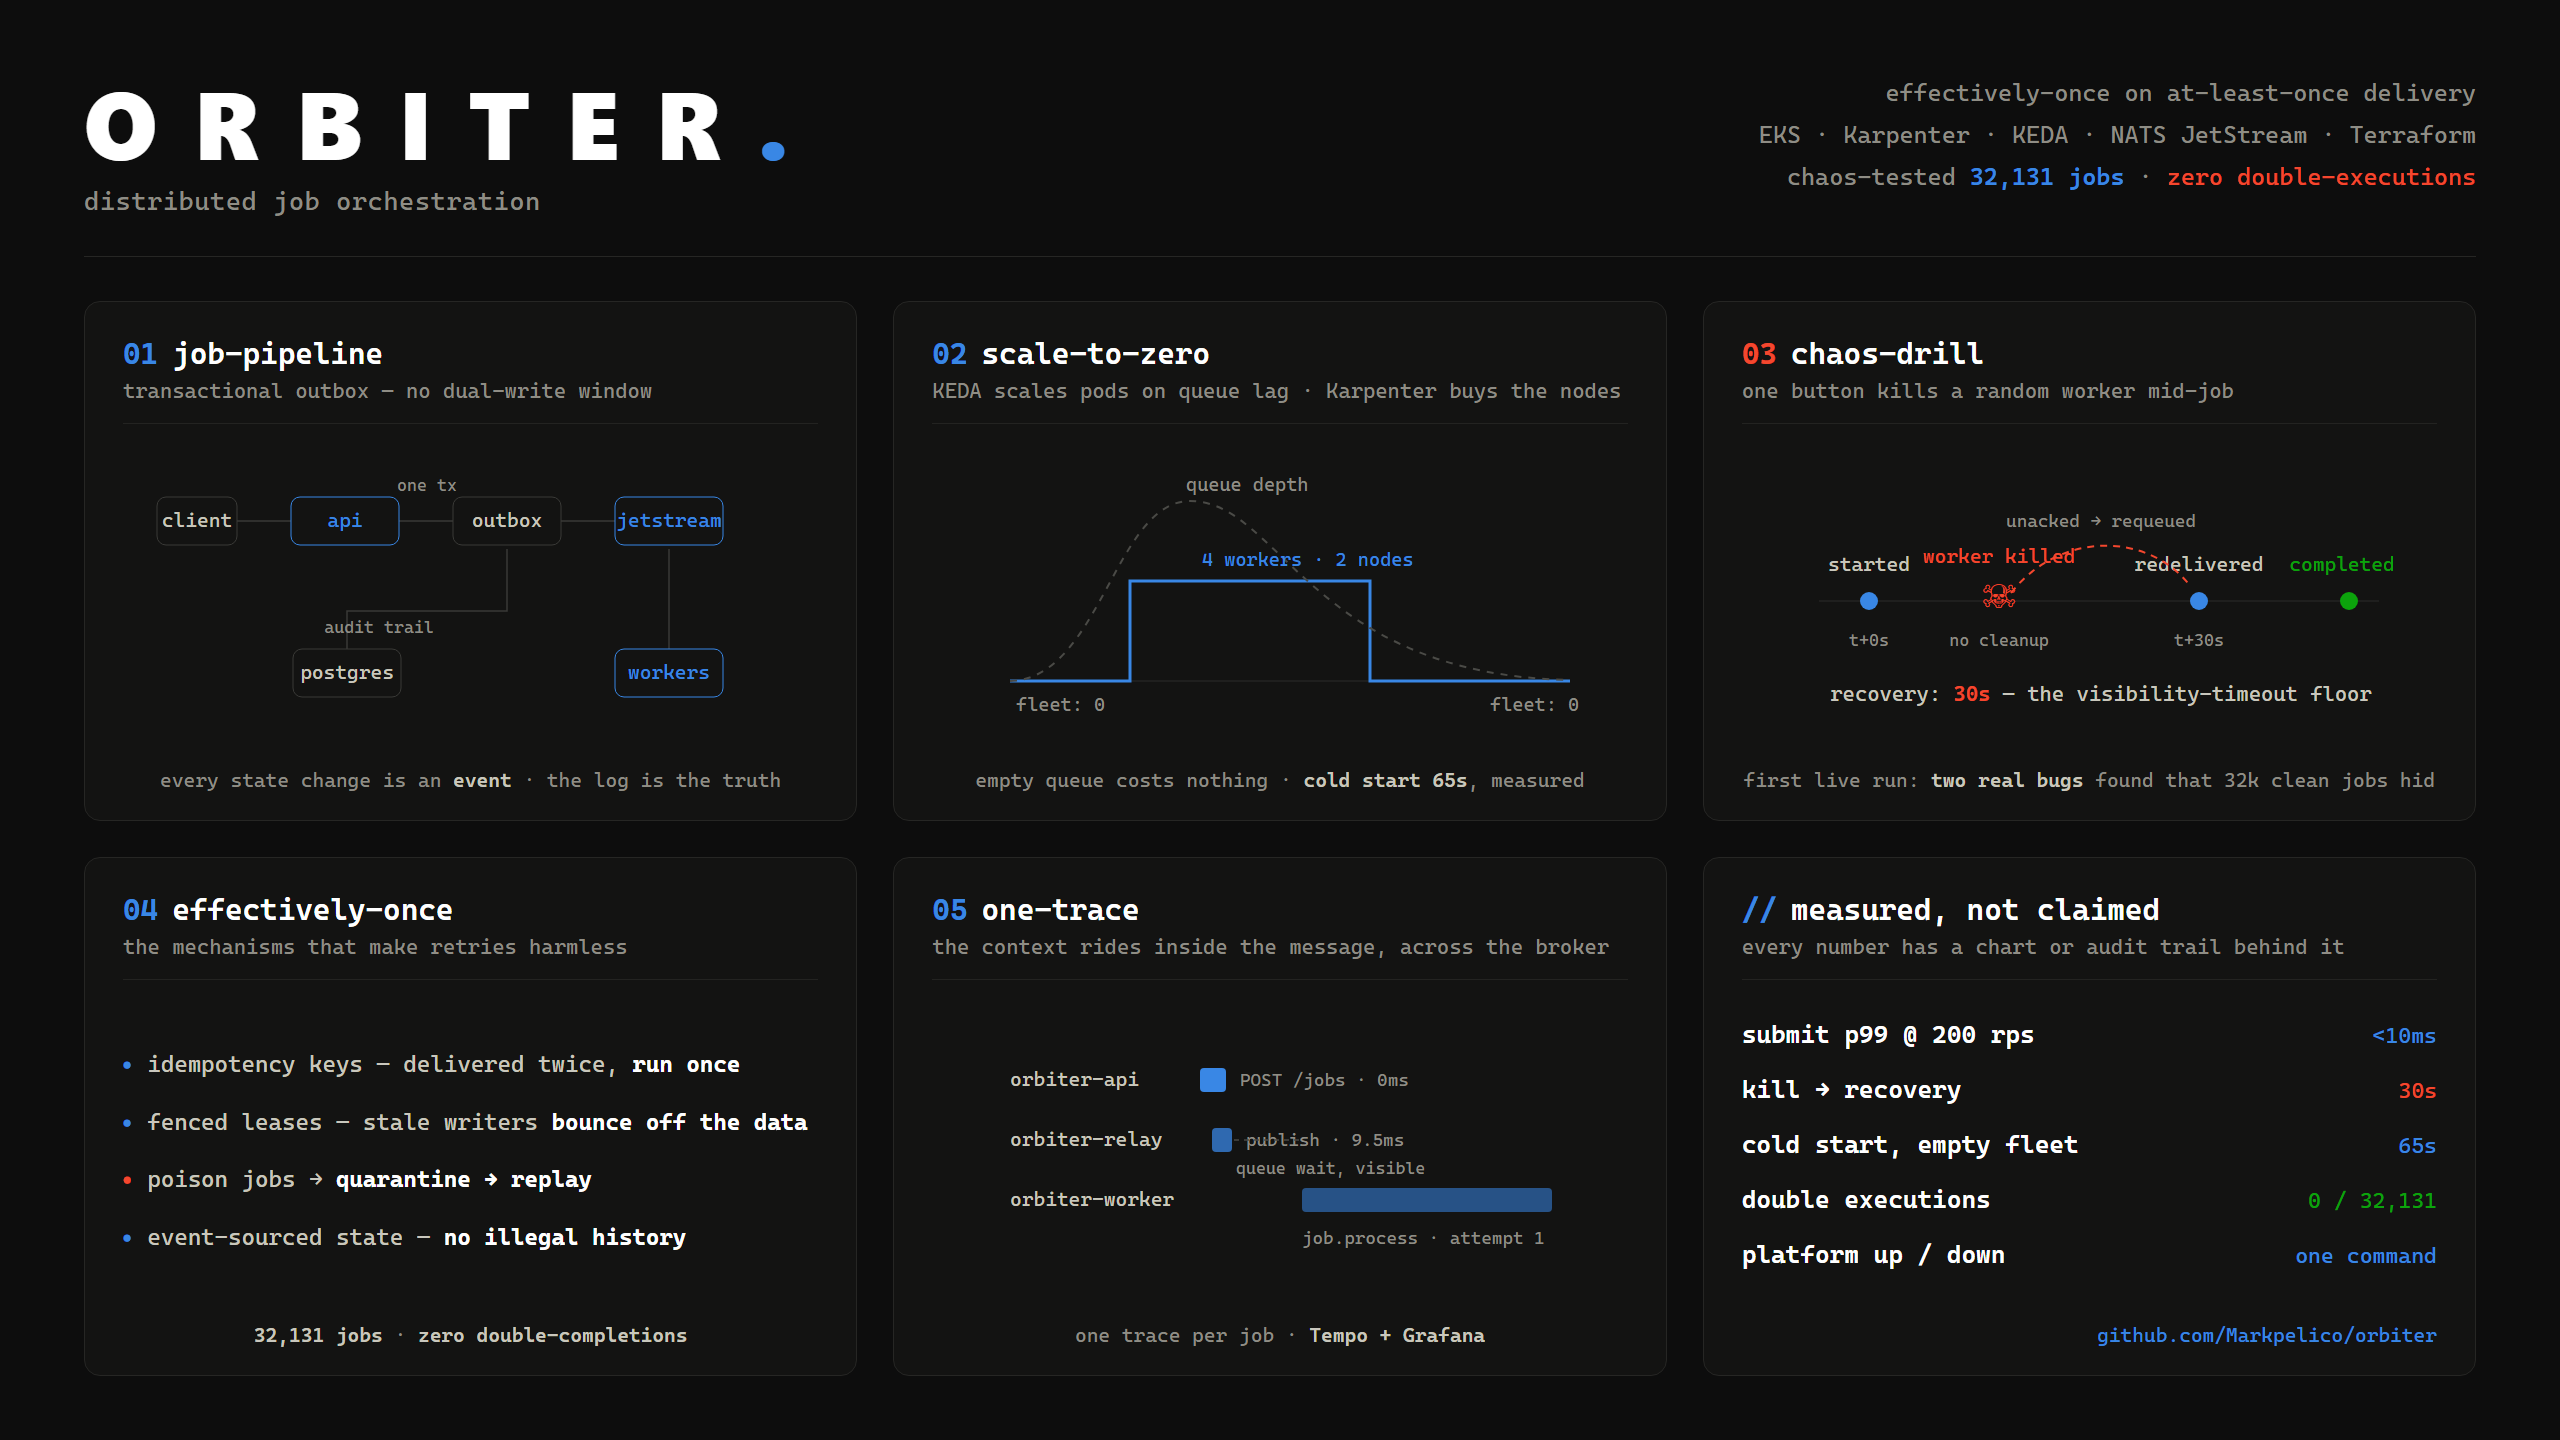
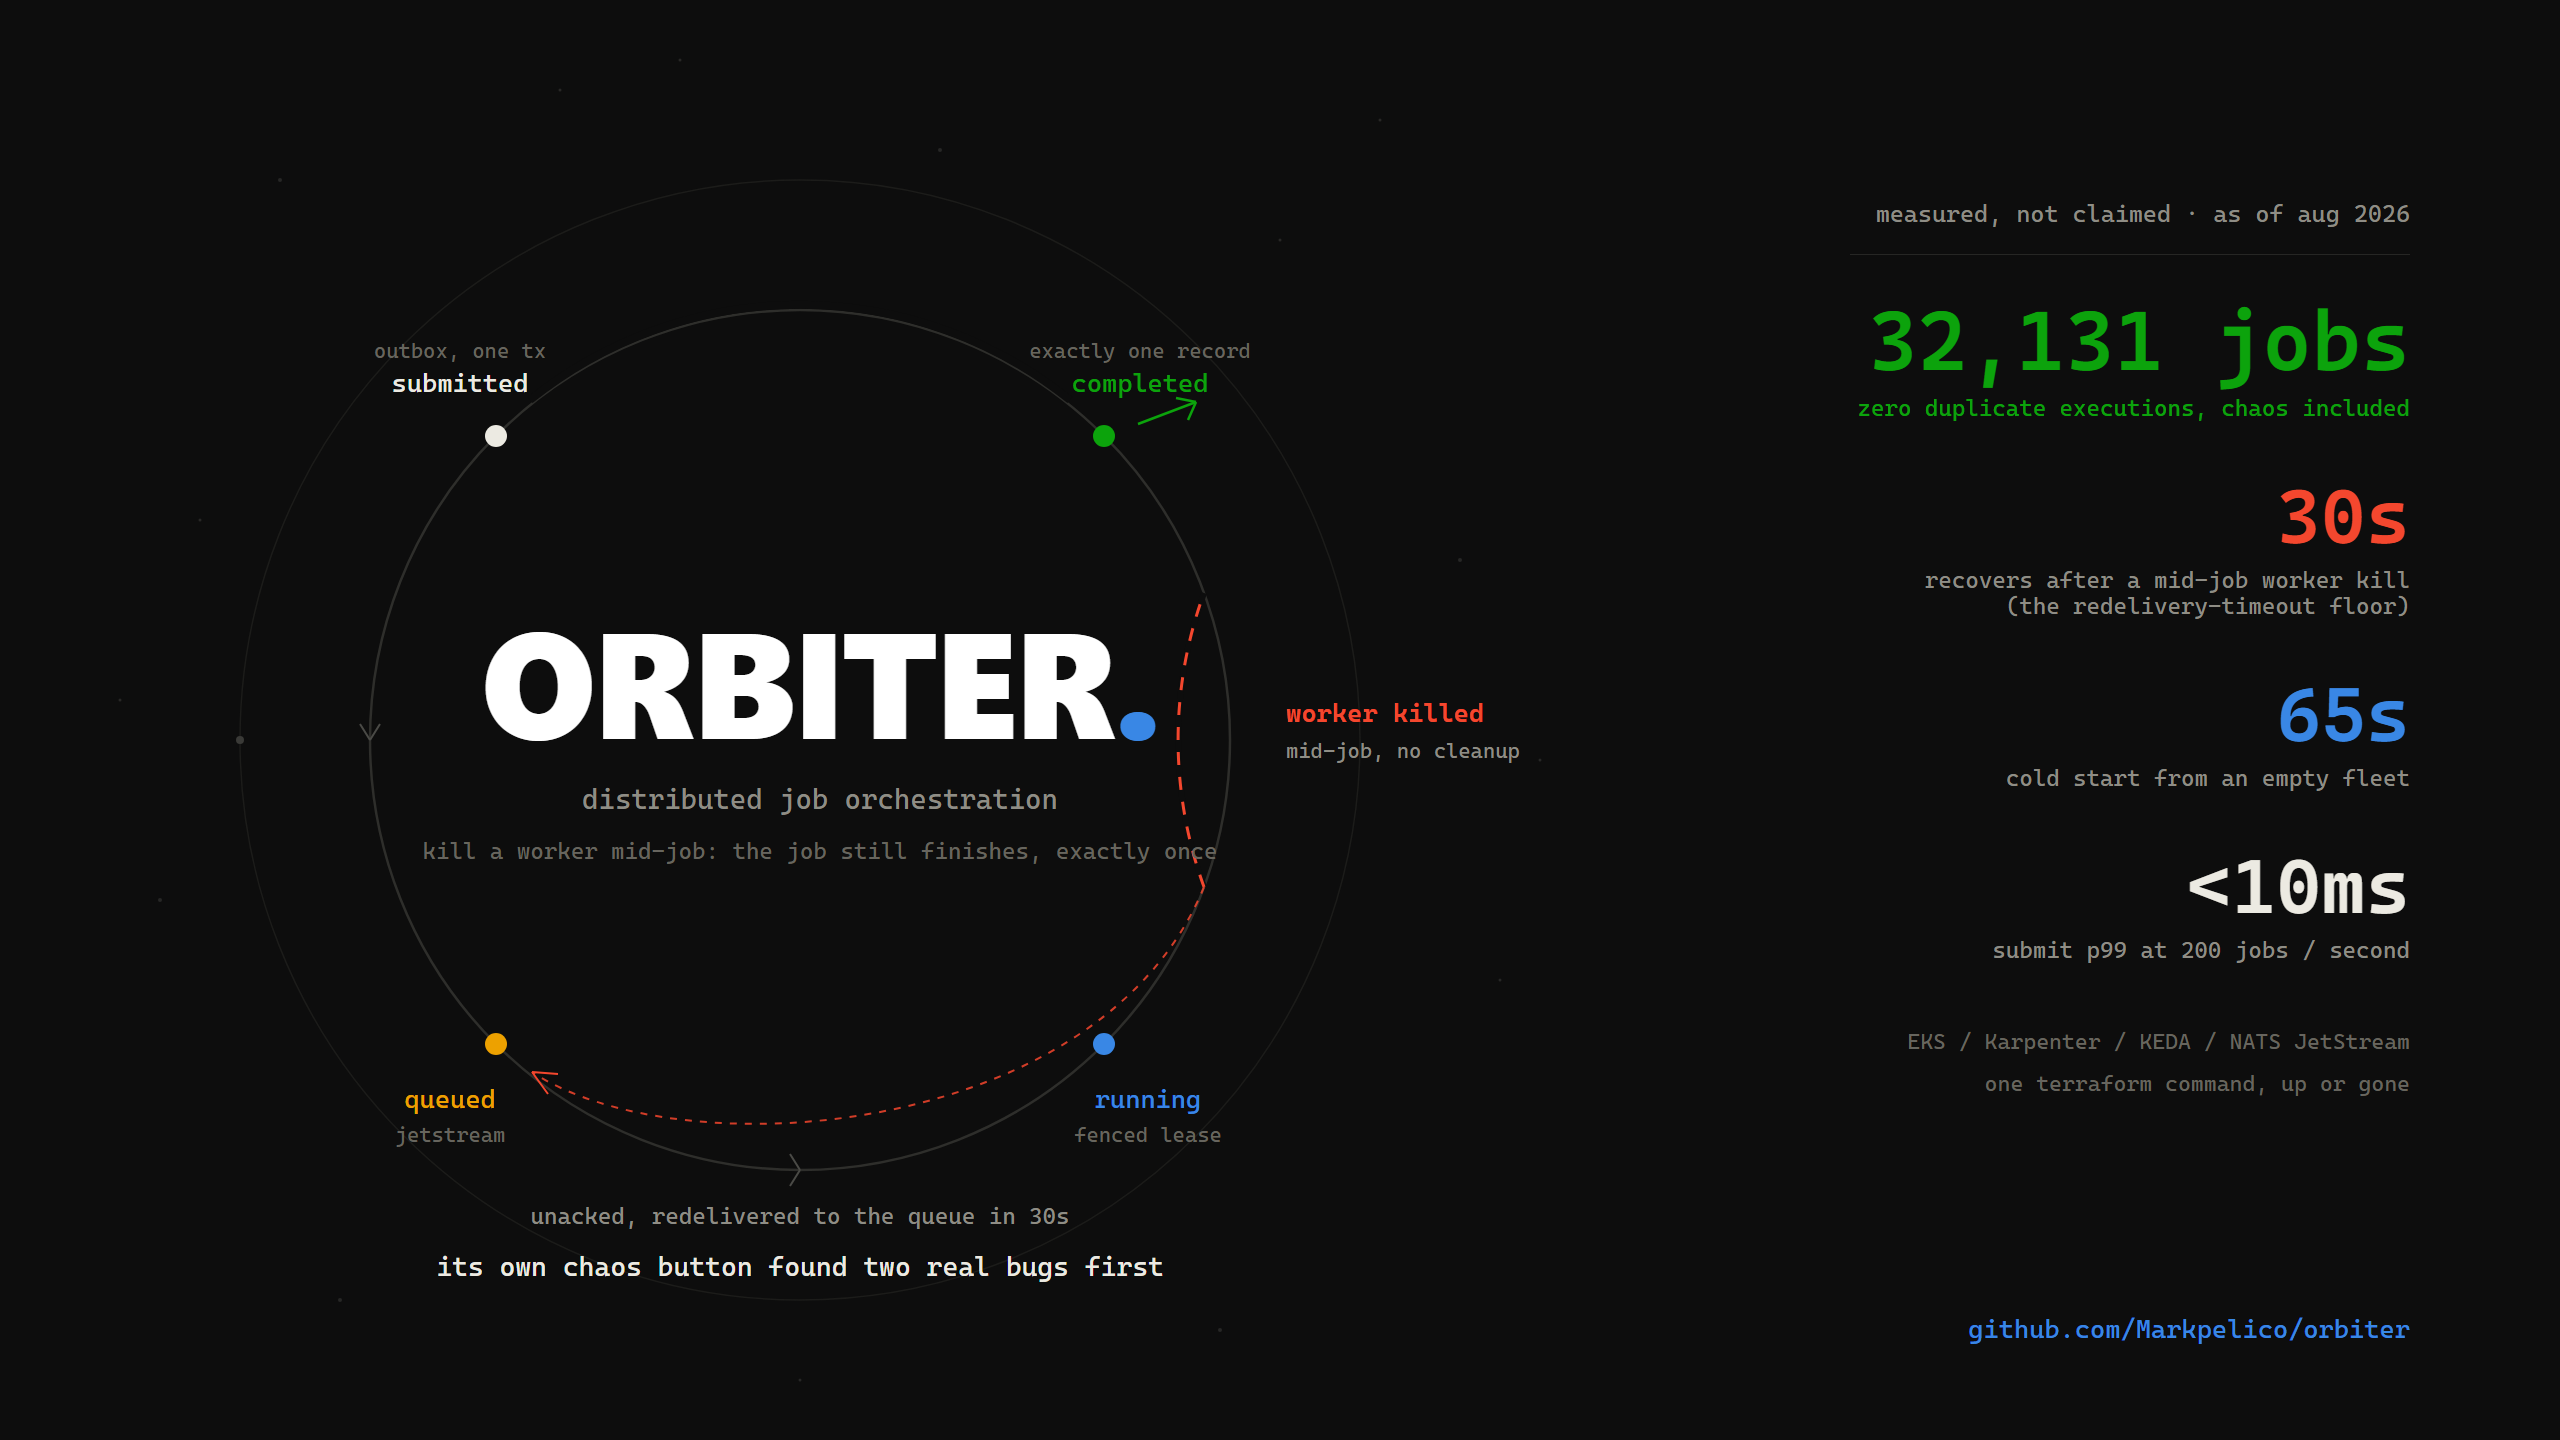
Board v2 after an 11-agent design council: orbital identity distinct from sibling projects; ring topology fixed (happy path terminates, only the failure path loops); headline stat reframed so zero reads as triumph not failure; alt text carries the claim; numbers linked to reproducible runs

diff --git a/README.md b/README.md
@@ -10,7 +10,12 @@ partition, and clocks skew. It exists to demonstrate — with charts, traces, an
 experiments — *why* distributed systems need idempotency, backpressure, fencing tokens,
 and graceful shutdown.
 
-![The ORBITER board: pipeline, scale-to-zero, chaos drill, effectively-once mechanisms, one trace per job, and the measured numbers](docs/assets/orbiter-board.png)
+![ORBITER: 32,131 jobs with zero duplicate executions, chaos included. A job's lifecycle drawn as an orbit that terminates at completed; the only closed loop is the red failure path, where a worker killed mid-job is redelivered to the queue and recovers in 30 seconds](docs/assets/orbiter-board.png)
+
+Every number on the board is reproducible from this repo: the integration suite
+and `make load` regenerate them, [RESULTS.md](RESULTS.md) keeps the ledger.
+(Project boards on my portfolio are designed per project: BASTION is a grid
+blueprint, ORBITER is an orbit. Deliberate, not a template.)
 
 ## Status
 
